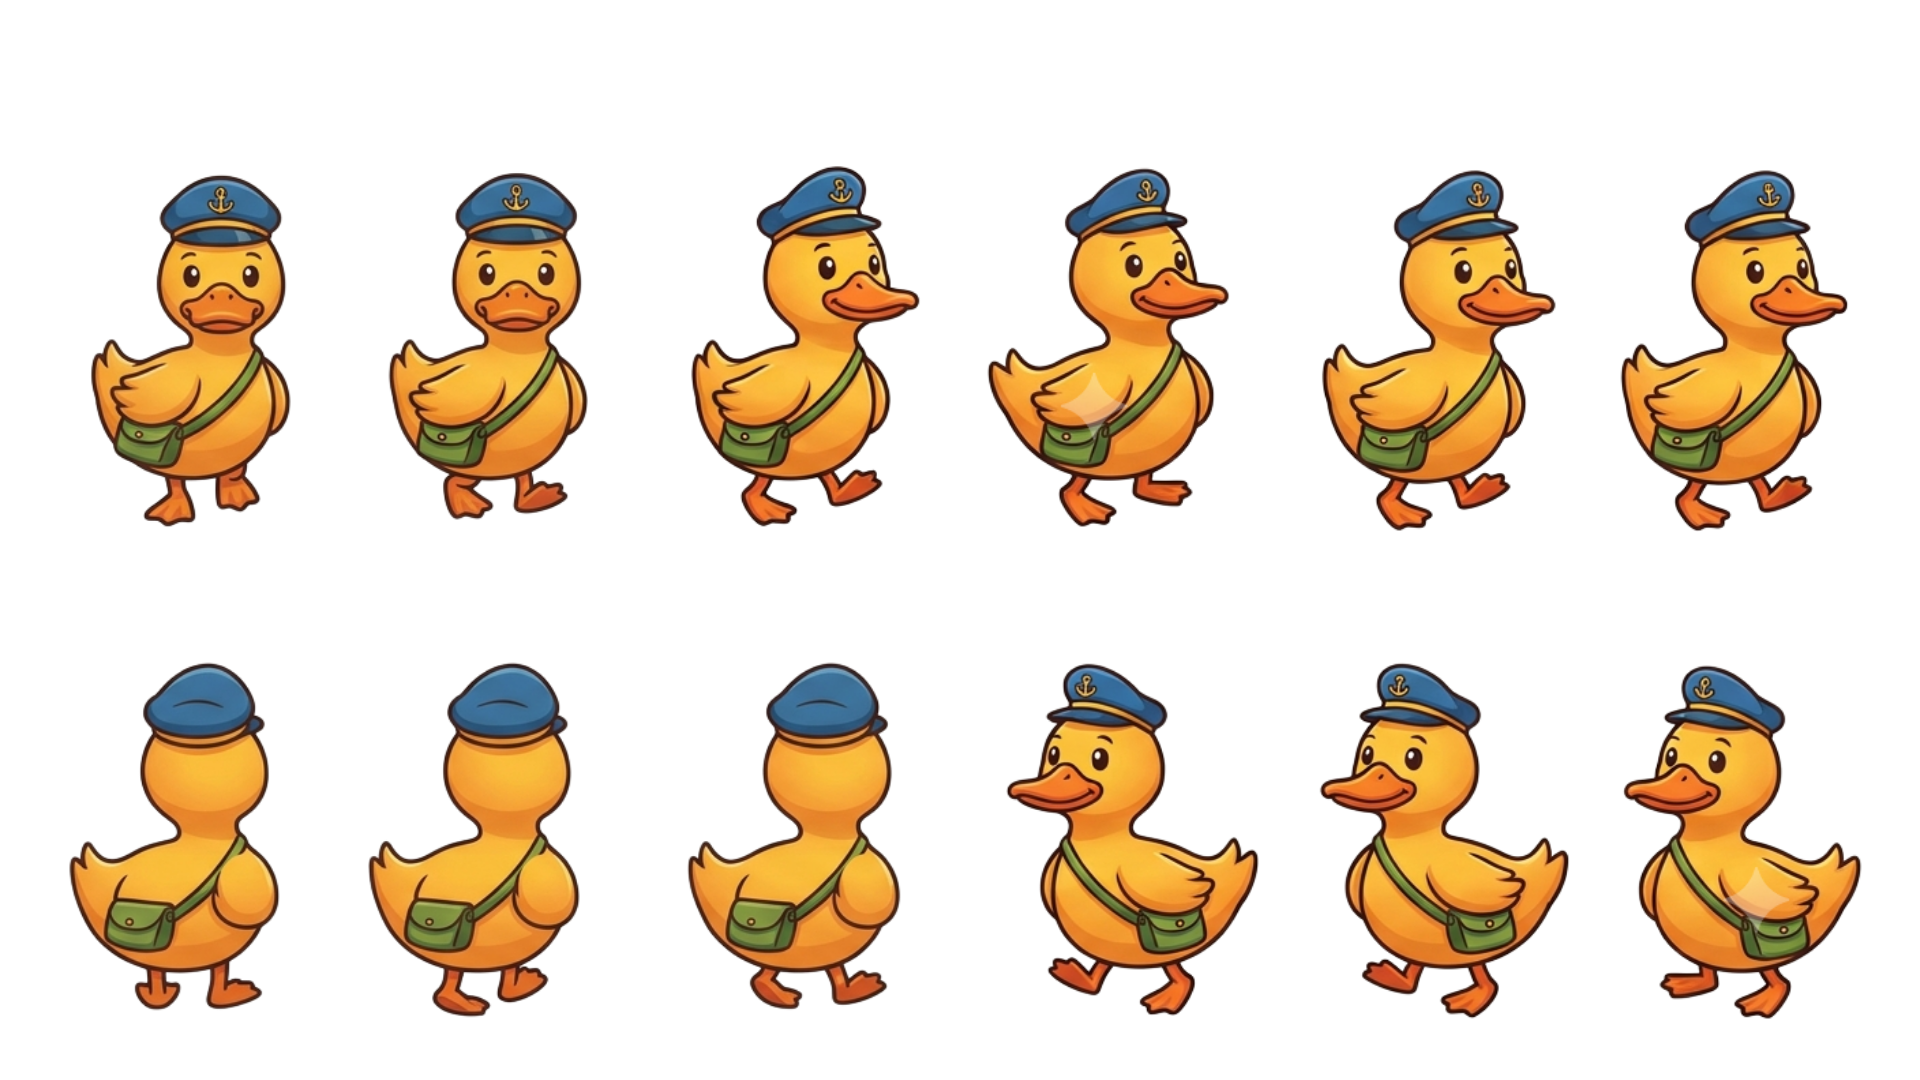
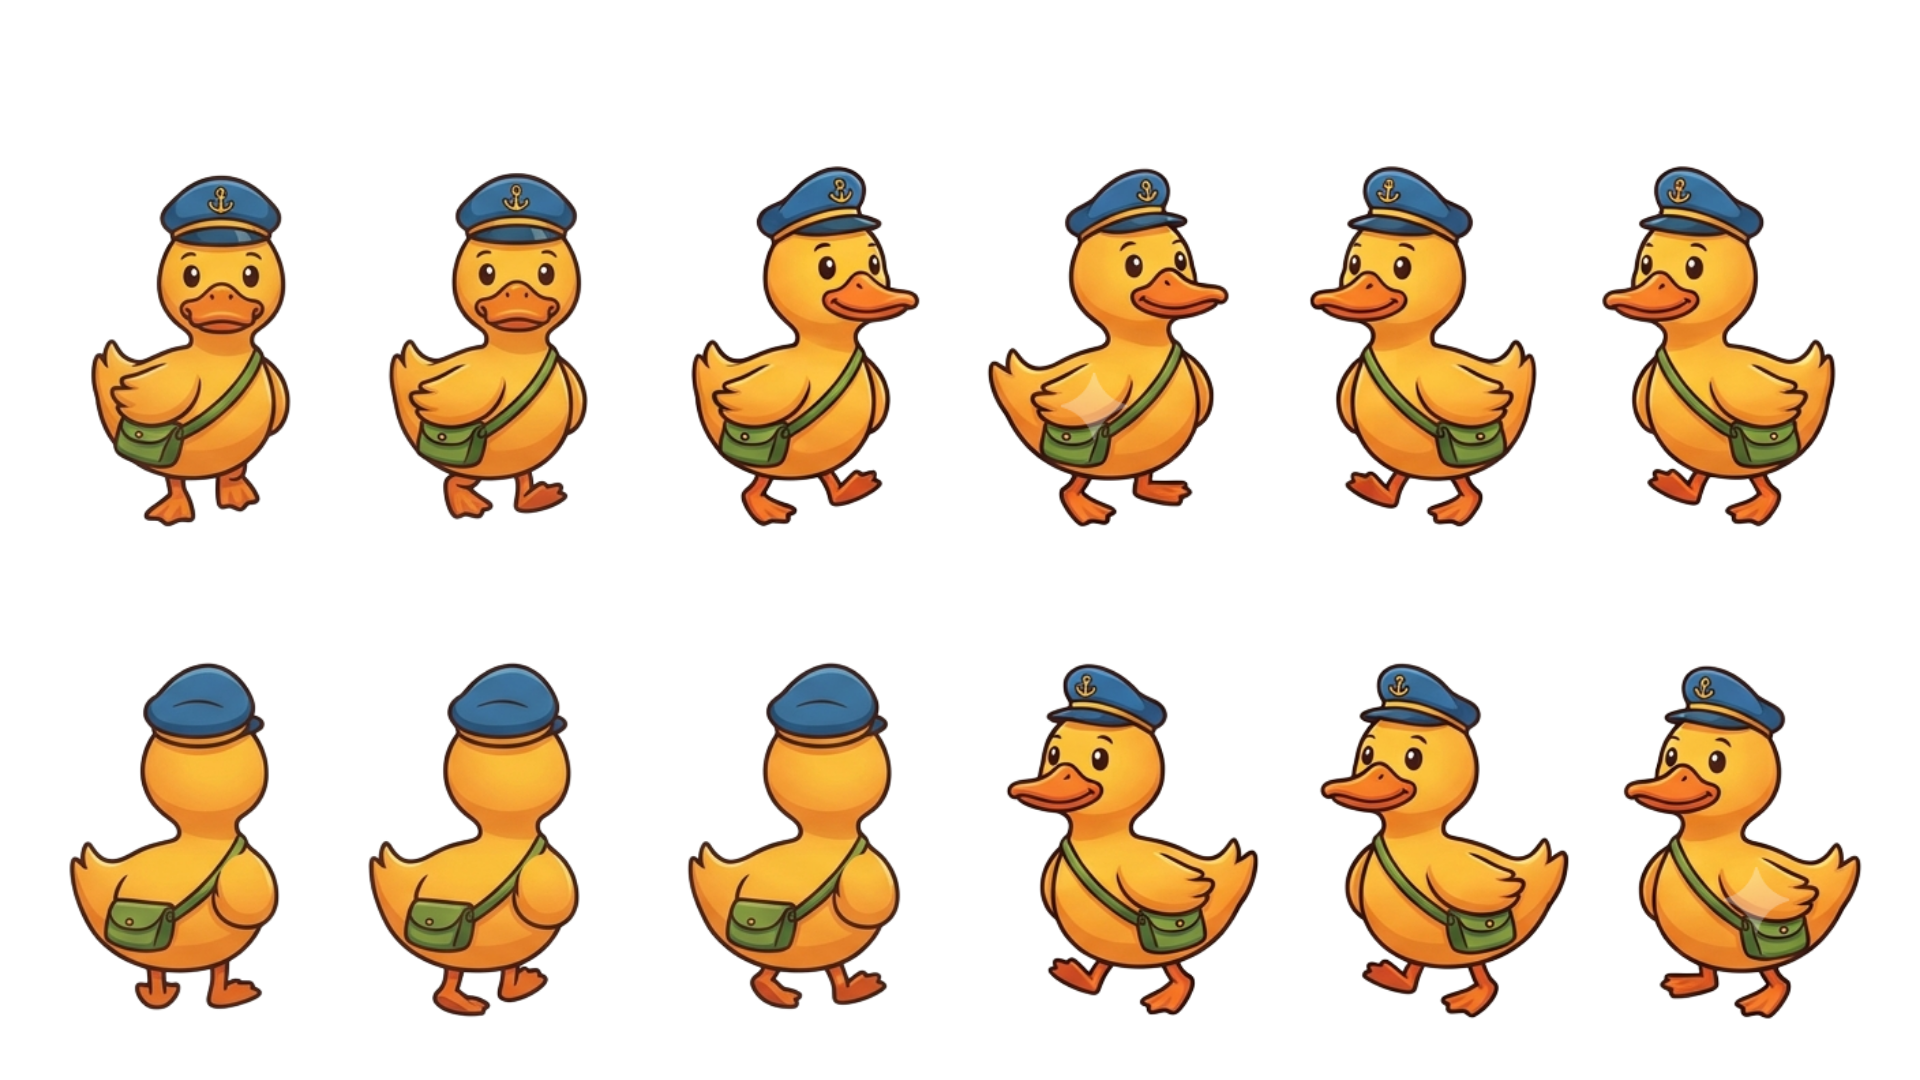
0.0003

Changed region(s): [[0.6875, 0.1528, 0.9688, 0.4889]]

diff --git a/index.html b/index.html
@@ -404,16 +404,18 @@ class DuckSprite {
 
     // 방향별로 사용할 격자 칸 목록 [열 c, 행 r]
     // 1행(r=0): 정면/오른쪽 | 2행(r=1): 뒷모습/왼쪽
-    // ※ 1행 2번 칸(c2)은 몸을 정면으로 살짝 튼 3/4 시점이라 작게 그리면
-    //   왼쪽 꽁지깃이 부리처럼 보이는 착시가 있어, 오른쪽 이동에는
-    //   옆모습이 뚜렷한 3~5번 칸을 사용한다.
+    // ※ 1행의 오른쪽 보기 칸들(c2~c5)은 몸을 살짝 튼 3/4 시점이라
+    //   게임 크기로 축소하면 왼쪽을 보는 것처럼 읽히는 착시가 있다.
+    //   그래서 오른쪽 이동은 방향이 또렷한 2행 왼쪽 옆모습(c3~c5)을
+    //   좌우 반전(flipX)해서 사용한다. (게임에서 흔히 쓰는 기법)
     this.anims = {
       down:  [{ c: 0, r: 0 }, { c: 1, r: 0 }],                 // 정면 걷기
-      right: [{ c: 3, r: 0 }, { c: 4, r: 0 }, { c: 5, r: 0 }], // 오른쪽 걷기 (뚜렷한 옆모습)
+      right: [{ c: 3, r: 1 }, { c: 4, r: 1 }, { c: 5, r: 1 }], // 왼쪽 옆모습을 반전해 오른쪽으로
       up:    [{ c: 0, r: 1 }, { c: 1, r: 1 }, { c: 2, r: 1 }], // 뒷모습 걷기 (기본)
       left:  [{ c: 3, r: 1 }, { c: 4, r: 1 }, { c: 5, r: 1 }], // 왼쪽 걷기
-      upAlt: [{ c: 2, r: 0 }],                                 // 예비: 3/4 시점 (현재 미사용)
+      upAlt: [{ c: 4, r: 0 }, { c: 5, r: 0 }],                 // 예비: 1행 원본 오른쪽 칸 (미사용)
     };
+    this.flipX = { right: true }; // 이 방향들은 그릴 때 좌우 반전
 
     const img = new Image();
     img.onload = () => {
@@ -440,12 +442,45 @@ class DuckSprite {
         if (px[i] >= th && px[i + 1] >= th && px[i + 2] >= th) px[i + 3] = 0;
       }
       octx.putImageData(data, 0, 0);
+      this.computeOffsets(data);
       return off;
     } catch (e) {
       // file:// 로 직접 열면 보안 정책 때문에 픽셀 접근이 막힐 수 있음
-      // → 투명화 없이 원본 이미지 그대로 사용 (게임은 정상 동작)
-      console.warn("스프라이트 투명화 실패(로컬 보안 정책). 로컬 서버로 열면 배경이 투명해집니다.", e);
+      // → 투명화·중심 보정 없이 원본 이미지 그대로 사용 (게임은 정상 동작)
+      console.warn("스프라이트 픽셀 가공 실패(로컬 보안 정책). 로컬 서버로 열면 완전하게 표시됩니다.", e);
+      this.offsets = null;
       return img;
+    }
+  }
+
+  // 칸마다 오리 그림이 정중앙에 있지 않아 프레임 전환 시 위치가 튀는 문제 보정:
+  // 각 칸에서 비투명 픽셀의 중심이 칸 중심에서 얼마나 벗어났는지 미리 계산해 두고,
+  // 그릴 때 그만큼 반대로 밀어 어느 프레임이든 오리가 같은 자리에 그려지게 한다.
+  computeOffsets(data) {
+    this.offsets = [];
+    const W = data.width, px = data.data;
+    const cw = Math.floor(this.sw), ch = Math.floor(this.sh);
+    for (let r = 0; r < this.rows; r++) {
+      const row = [];
+      for (let c = 0; c < this.cols; c++) {
+        const x0 = Math.floor(c * this.sw), y0 = Math.floor(r * this.sh);
+        let minX = Infinity, maxX = -1, minY = Infinity, maxY = -1;
+        for (let y = 0; y < ch; y++) {
+          for (let x = 0; x < cw; x++) {
+            if (px[((y0 + y) * W + (x0 + x)) * 4 + 3] > 8) { // 알파 있는 픽셀만
+              if (x < minX) minX = x;
+              if (x > maxX) maxX = x;
+              if (y < minY) minY = y;
+              if (y > maxY) maxY = y;
+            }
+          }
+        }
+        row.push(maxX < 0 ? { ox: 0, oy: 0 } : {
+          ox: (minX + maxX) / 2 - this.sw / 2, // 그림 중심의 가로 치우침 (px)
+          oy: (minY + maxY) / 2 - this.sh / 2, // 그림 중심의 세로 치우침 (px)
+        });
+      }
+      this.offsets.push(row);
     }
   }
 
@@ -473,14 +508,23 @@ class DuckSprite {
   // 그리기에 성공하면 true (아직 로드 전이면 false → 호출부에서 도형 폴백)
   draw(ctx, x, y, drawH, dirName) {
     if (!this.ready) return false;
-    const frames = this.anims[dirName || this.dirName];
+    const dn = dirName || this.dirName;
+    const frames = this.anims[dn];
     const f = frames[this.frameIndex % frames.length];
     const drawW = drawH * (this.sw / this.sh); // 칸 비율 유지
+    const scale = drawH / this.sh;
+    // 칸 안에서 그림이 치우친 만큼 반대로 밀어, 프레임이 바뀌어도 오리가 흔들리지 않게
+    const off = this.offsets ? this.offsets[f.r][f.c] : { ox: 0, oy: 0 };
+    ctx.save();
+    ctx.translate(x, y);                       // (x, y)를 원점으로
+    if (this.flipX[dn]) ctx.scale(-1, 1);      // 필요한 방향은 좌우 반전해서 그림
     ctx.drawImage(
       this.sheet,
-      f.c * this.sw, f.r * this.sh, this.sw, this.sh, // 소스 크롭 (sx, sy, sW, sH)
-      x - drawW / 2, y - drawH / 2, drawW, drawH      // 목적지 (dx, dy, dW, dH)
+      f.c * this.sw, f.r * this.sh, this.sw, this.sh,             // 소스 크롭 (sx, sy, sW, sH)
+      -drawW / 2 - off.ox * scale, -drawH / 2 - off.oy * scale,   // 목적지 (dx, dy) — 원점 중심
+      drawW, drawH                                                // 목적지 크기 (dW, dH)
     );
+    ctx.restore();
     return true;
   }
 }
@@ -527,7 +571,7 @@ function worldDist(x1, y1, x2, y2) {
  * [6] 게임 상태
  * ============================================================ */
 let state = "start";   // "start" | "playing" | "gameover"
-let duck, dir, pendingDir, trail, rescued, boxes, feedbacks, speed;
+let duck, dir, dirQueue, trail, rescued, boxes, feedbacks, speed;
 let cam = { x: 0, y: 0 };
 let rocks, wolves, gameTime, nextHazardAt, invulnUntil, gameOverReason;
 let lostDucks; // 잃어서 떠내려가는 아기 오리 연출용
@@ -553,7 +597,7 @@ function initGame() {
   duck = { x: CONFIG.WORLD_W / 2, y: CONFIG.WORLD_H / 2 };
   cam = { x: duck.x, y: duck.y };
   dir = { x: 1, y: 0 };
-  pendingDir = null;
+  dirQueue = [];
   trail = [];
   rescued = 0;
   nextQuestion();
@@ -622,8 +666,13 @@ function spawnHazard() {
  *     Pointer Events로 마우스/터치를 통합 처리하고,
  *     touch 이벤트에는 preventDefault로 화면 스크롤 버그를 차단.
  * ============================================================ */
+// 입력을 큐에 순서대로 쌓는다. (빠르게 연속 입력해도 앞의 입력이 덮어써져
+// 사라지지 않고, 한 프레임에 하나씩 차례대로 적용된다 → 즉각적인 조작감)
 function setDir(nx, ny) {
-  pendingDir = { x: nx, y: ny }; // 실제 적용은 프레임당 1회(update)에서 역주행 검사 후
+  const last = dirQueue.length ? dirQueue[dirQueue.length - 1] : dir;
+  if (last.x === nx && last.y === ny) return; // 직전 입력과 같으면 무시 (키 반복 등)
+  dirQueue.push({ x: nx, y: ny });
+  if (dirQueue.length > 3) dirQueue.shift(); // 너무 오래된 입력은 버림
 }
 
 // 키보드 (방향키 + WASD)
@@ -748,10 +797,14 @@ function update(dt) {
     nextHazardAt += CONFIG.HAZARD_INTERVAL;
   }
 
-  // 방향 적용 (역주행 = 즉시 자기 꼬리 충돌이므로 금지)
-  if (pendingDir) {
-    if (!(pendingDir.x === -dir.x && pendingDir.y === -dir.y)) dir = pendingDir;
-    pendingDir = null;
+  // 방향 적용: 큐에서 유효한 입력을 하나 꺼내 적용 (프레임당 1회 회전)
+  // 역주행(정반대 방향)은 즉시 자기 꼬리와 충돌하므로 건너뛴다.
+  while (dirQueue.length) {
+    const d = dirQueue.shift();
+    if (d.x === dir.x && d.y === dir.y) continue;   // 이미 그 방향
+    if (d.x === -dir.x && d.y === -dir.y) continue; // 역주행 금지
+    dir = d;
+    break;
   }
 
   // 스프라이트 시트 방향 동기화 (이동 방향에 맞는 행/열 세트 선택)